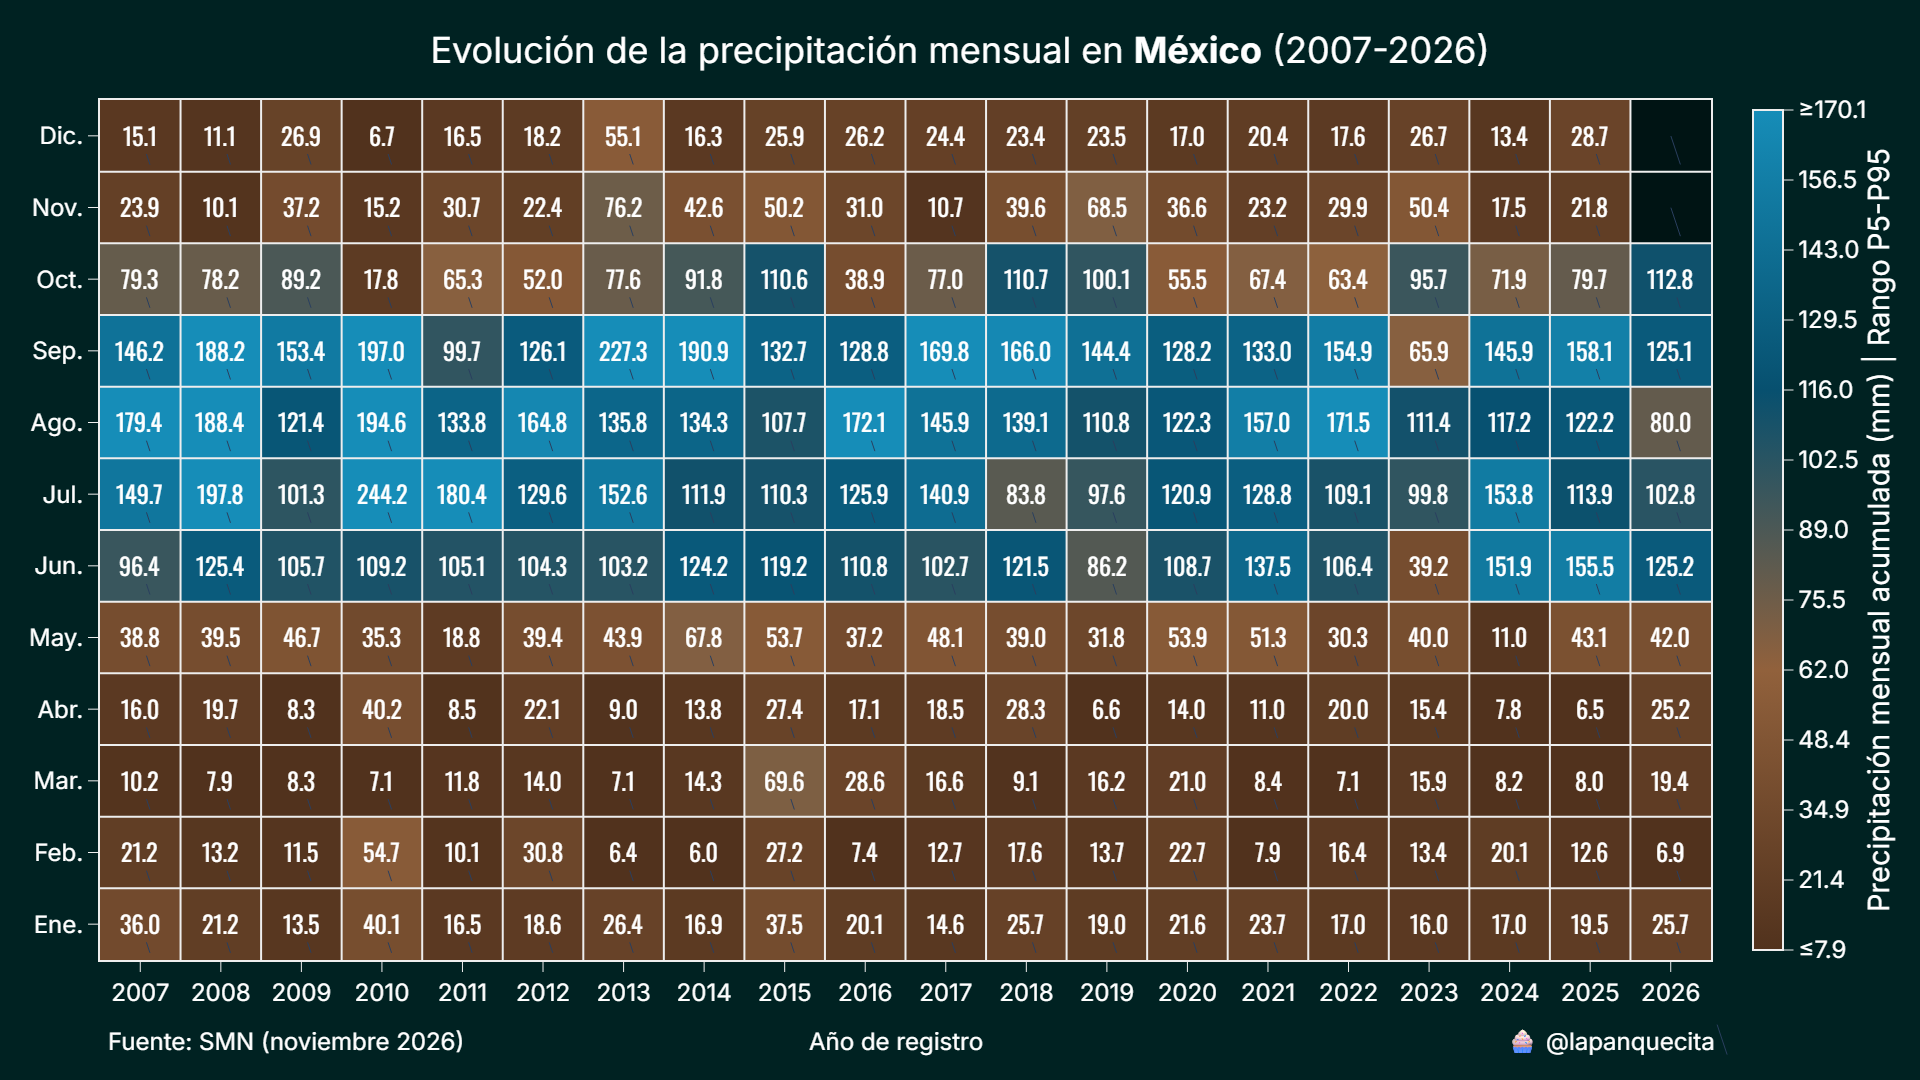
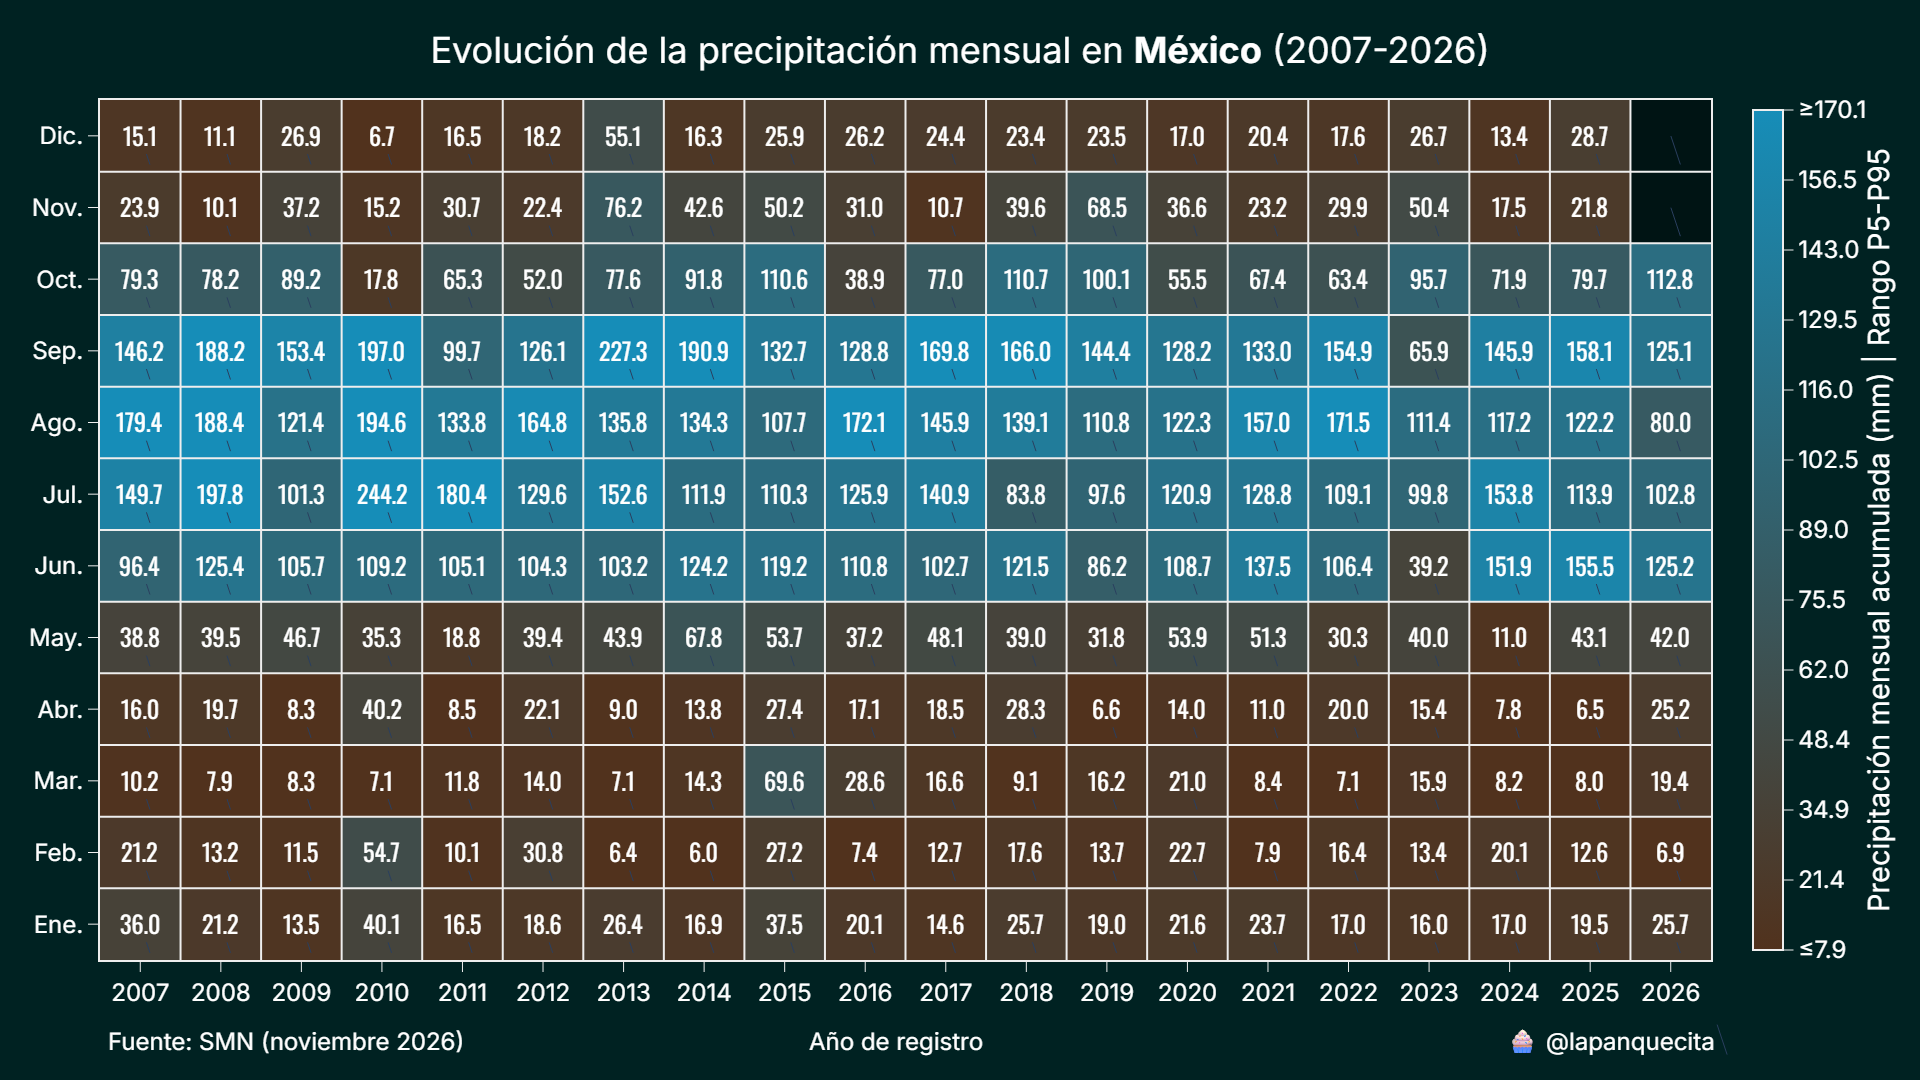
Ajustes

diff --git a/script.py b/script.py
@@ -774,7 +774,13 @@ def precipitacion_anual(entidad_id):
     )
 
     # Agregamos la línea de la mediana histórica.
-    fig.add_hline(mediana, line_width=4, line_color="#FFFFFF")
+    fig.add_hline(
+        mediana,
+        line_width=4,
+        line_color="#FFFFFF",
+        annotation_text=f"<b>Mediana histórica ({mediana:,.1f} mm)</b>",
+        annotation_position="top",
+    )
 
     fig.update_xaxes(
         range=[df.index.min() - 0.5, df.index.max() + 0.5],
@@ -826,14 +832,6 @@ def precipitacion_anual(entidad_id):
         plot_bgcolor=PLOT_COLOR,
         paper_bgcolor=PAPER_COLOR,
         annotations=[
-            dict(
-                x=0.5,
-                y=mediana * 1.025,
-                xref="paper",
-                xanchor="center",
-                yanchor="top",
-                text=f"<b>Mediana histórica ({mediana:,.1f} mm)</b>",
-            ),
             dict(
                 x=0.01,
                 y=-0.11,
@@ -1071,7 +1069,7 @@ def precipitacion_mensual(entidad_id):
             z=df.values,
             zmin=valor_min,
             zmax=valor_max,
-            colorscale=["#51321D", "#91613C", "#07506F", "#168DB8"],
+            colorscale=["#51321D", "#168DB8"],
             colorbar=dict(
                 title="Precipitación mensual acumulada (mm) | Rango P5-P95",
                 title_side="right",
